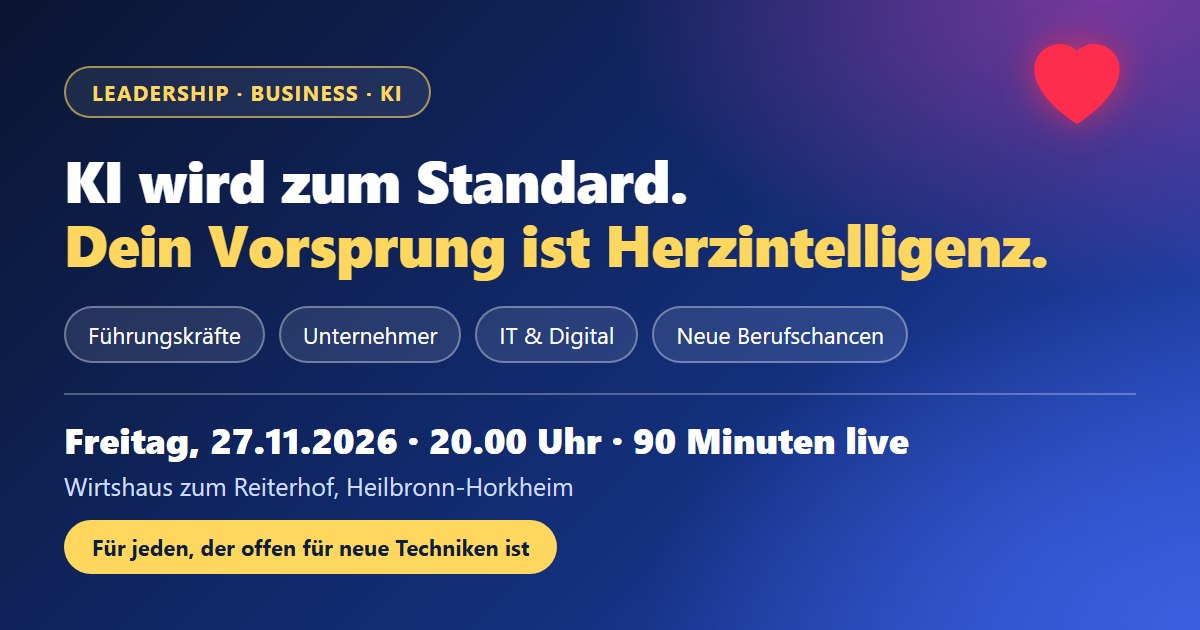
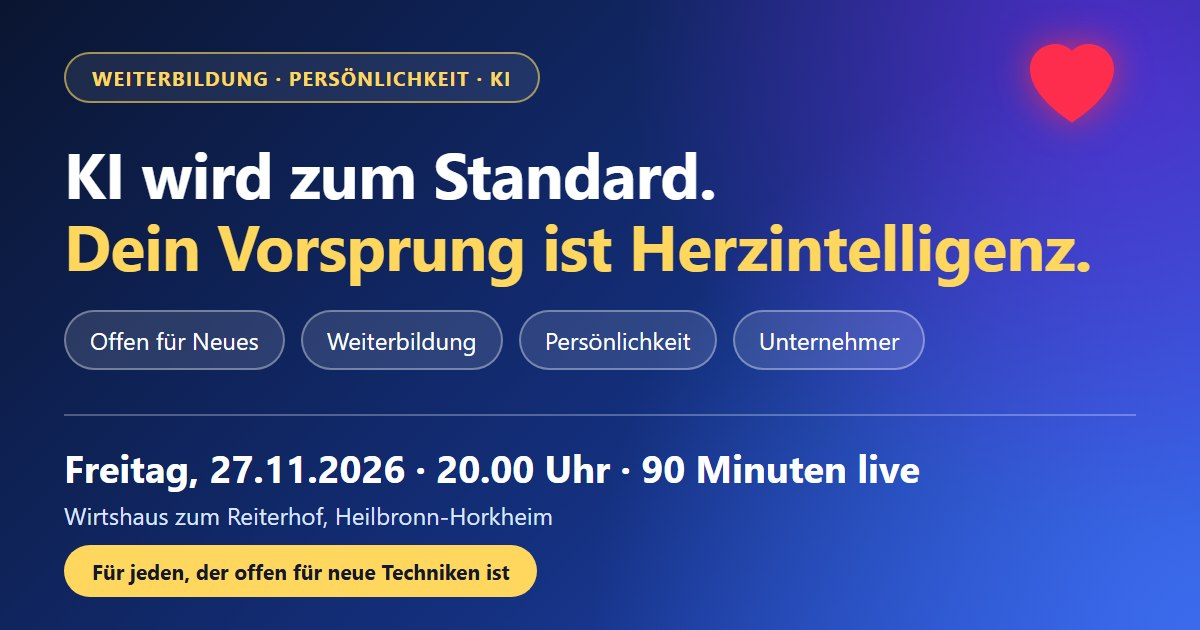
Add files via upload

diff --git a/js_img_css/info-teilen.js b/js_img_css/info-teilen.js
@@ -8,7 +8,7 @@
   var URL_OEFFENTLICH = "https://nosz.github.io/norbert-szpak/info-veranstaltung.html";
   var DATEN = {
     title: "Einladung zum Infoabend am 27.11.2026 in Heilbronn-Horkheim",
-    text: "KI wird zum Standard. Dein Vorsprung ist Herzintelligenz. Infoabend für Führungskräfte, Unternehmer, IT-Verantwortliche und alle mit Interesse an neuen Techniken und Persönlichkeitsentwicklung: Wie du im KI-Zeitalter führst, besser entscheidest und neue Berufschancen früh erkennst. Freitag, 27.11.2026, 20.00 Uhr, 90 Minuten live im Wirtshaus zum Reiterhof, danach Business Netzwerk-Treffen. Alle Informationen und die Anmeldung findest du hier:",
+    text: "KI wird zum Standard. Dein Vorsprung ist Herzintelligenz. Infoabend für alle, die offen für neue Techniken sind, sich beruflich weiterbilden wollen und Interesse an Persönlichkeitsentwicklung haben, und für Unternehmer: Wie du im KI-Zeitalter klar entscheidest und neue Berufschancen früh erkennst. Freitag, 27.11.2026, 20.00 Uhr, 90 Minuten live im Wirtshaus zum Reiterhof, danach Business Netzwerk-Treffen. Alle Informationen und die Anmeldung findest du hier:",
     url: URL_OEFFENTLICH
   };
   // Text für die E-Mail (Zeilenumbrüche als CRLF, damit Outlook den Text übernimmt)
@@ -17,7 +17,7 @@
     "",
     "ich möchte dich herzlich zu einem Infoabend einladen: Freitag, 27.11.2026, 20.00 Uhr, Wirtshaus zum Reiterhof in Heilbronn-Horkheim.",
     "",
-    "KI wird zum Standard, den Unterschied machen Menschen: Klarheit, Urteilskraft und Empathie werden zum Wettbewerbsvorteil. Gleichzeitig entstehen ganz neue Berufsmöglichkeiten. Der Abend richtet sich an Führungskräfte, Unternehmer und IT-Verantwortliche, aber auch an alle, die sich für neue Techniken und Persönlichkeitsentwicklung interessieren, ohne Vorwissen. Im zweiten Teil siehst du, wie KI-Agenten entstehen und wie als Praxisbeispiel eine professionelle Webseite gebaut und mit GitHub online gestellt wird. Alle Teilnehmer erhalten digitale Unterlagen, danach folgt das Business Netzwerk-Treffen.",
+    "KI wird zum Standard, den Unterschied machen Menschen: Klarheit, Urteilskraft und Empathie werden zum Wettbewerbsvorteil. Gleichzeitig entstehen ganz neue Berufsmöglichkeiten. Der Abend richtet sich an alle, die offen für neue Techniken sind, sich beruflich weiterbilden wollen und Interesse an Persönlichkeitsentwicklung haben, und an Unternehmer und Selbständige, ohne Vorwissen. Im zweiten Teil siehst du, wie KI-Agenten entstehen und wie als Praxisbeispiel eine professionelle Webseite gebaut und mit GitHub online gestellt wird. Alle Teilnehmer erhalten digitale Unterlagen, danach folgt das Business Netzwerk-Treffen.",
     "",
     "Alle Informationen und die Anmeldung findest du hier:",
     URL_OEFFENTLICH,

diff --git a/js_img_css/info-seite.css b/js_img_css/info-seite.css
@@ -281,3 +281,9 @@ a.kt-kanal-mail .bi { color: var(--kt-blau-dunkel); }
 @media (max-width: 575.98px) { .kt-zert-vorteile li { flex: 1 1 100%; } }
 .kt-h2 > span { min-width: 0; overflow-wrap: break-word; -webkit-hyphens: auto; hyphens: auto; }
 .kt-hero-facts a { color: inherit; text-decoration: underline; text-underline-offset: 3px; }
+
+/* ---------- Sehr schmale Handys (320-340 px), Version 2.11.2 ---------- */
+.kt-footer-links { flex-wrap: wrap; gap: 0 20px; }
+.kt-ziel { min-width: 0; overflow-wrap: break-word; -webkit-hyphens: auto; hyphens: auto; }
+@media (max-width: 991.98px) { .kt-wichtig.kt-wichtig-3 { grid-template-columns: minmax(0, 1fr); } }
+@media (max-width: 767.98px) { .kt-wichtig { grid-template-columns: minmax(0, 1fr); } }
